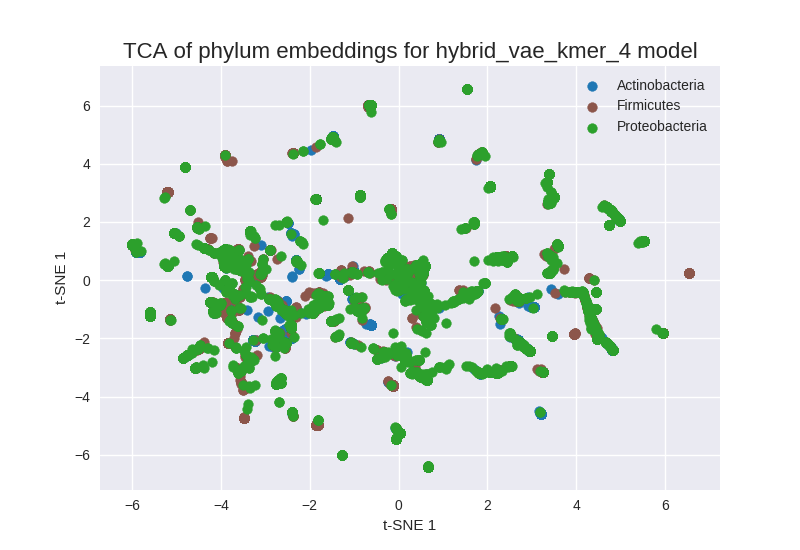
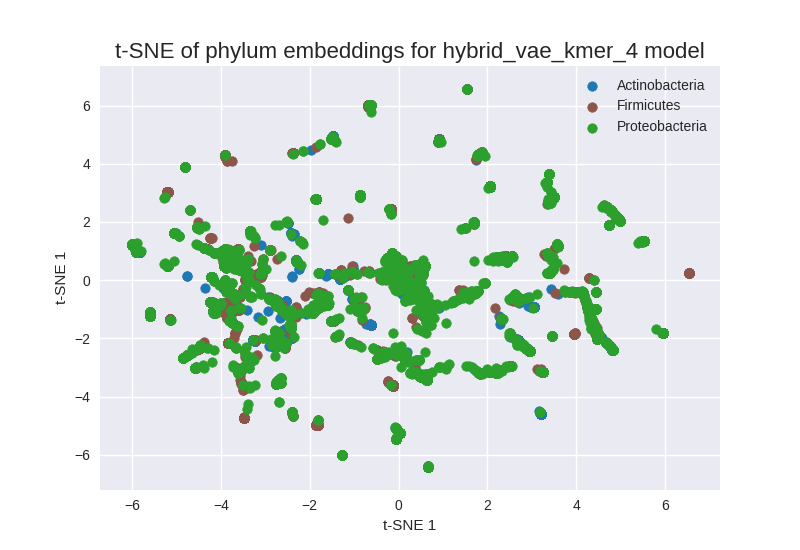
Update title in t-SNE plot

Changed region(s): [[0.1562, 0.0618, 0.875, 0.1236]]

diff --git a/ml/model/basic/kmer.py b/ml/model/basic/kmer.py
@@ -109,7 +109,7 @@ def plot_kmer_metrics(path_config, args):
                 model_scores[level].append(f1_score(gt_y, pred_y, average='macro'))
             pred_y = np.load('{}/{}_preds_{}_combined.npy'.format(dirpath_results, model, level))
             model_scores[level].append(f1_score(gt_y, pred_y, average='macro'))
-
+            
             plt.plot(range(1, 8), model_scores[level], label=level, color=COLORS[i])
 
         fpath_plot = '{}/{}_kmer.png'.format(dirpath_results, model)

diff --git a/ml/model/vae/hybrid/test_helper.py b/ml/model/vae/hybrid/test_helper.py
@@ -120,7 +120,7 @@ def save_embed_plots(fpath_data, embeddings, dirpath_results, model_name):
             'fpath_plot': '{}/{}_tsne_plot.png'.format(dirpath_results, model_name),
             'xlabel': 't-SNE 1',
             'ylabel': 't-SNE 2',
-            'title': 'TCA of phylum embeddings for {} model'.format(model_name),
+            'title': 't-SNE of phylum embeddings for {} model'.format(model_name),
             'info_msg': 'Saved TSNE plot in {path}'
         }
     ]
